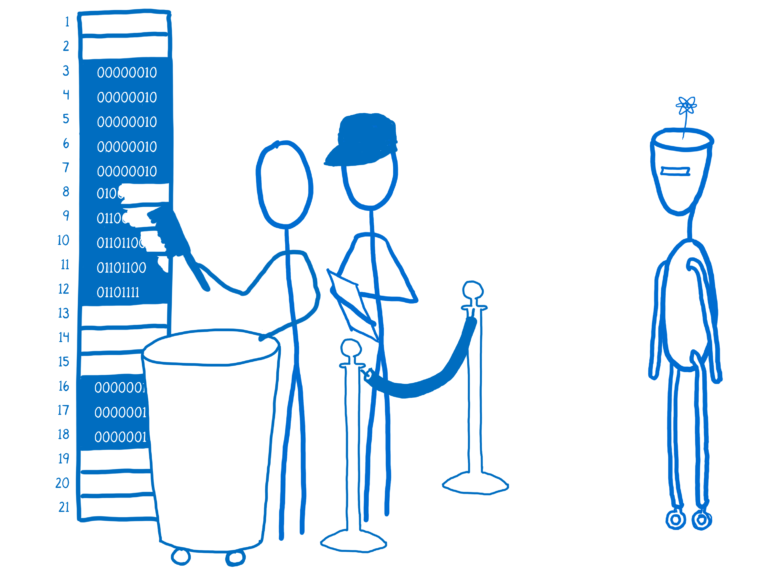
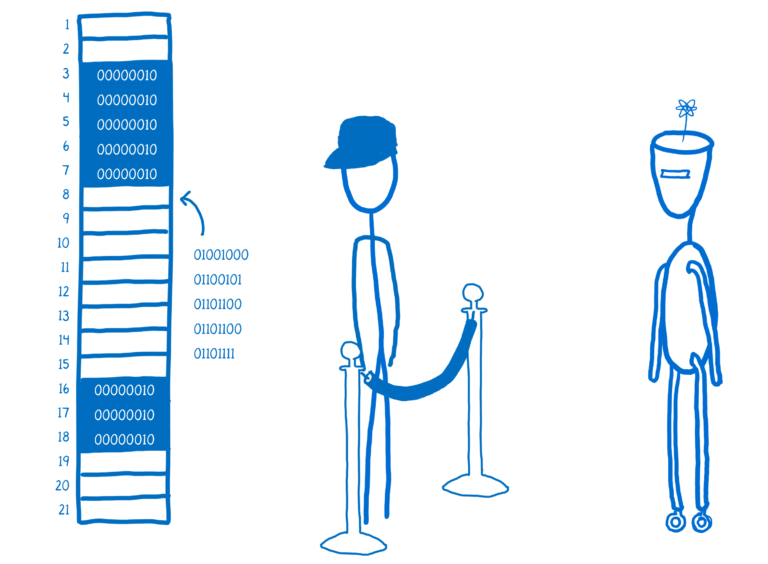
Site updated: 2019-05-10 13:03:54

diff --git a/2019/05/07/内存管理/index.html b/2019/05/07/内存管理/index.html
@@ -96,7 +96,17 @@
 <meta property="og:locale" content="zh-Hans">
 <meta property="og:image" content="http://heartwarming.github.io/images/memory_01.png">
 <meta property="og:image" content="http://heartwarming.github.io/images/memory_02.png">
-<meta property="og:updated_time" content="2019-05-10T04:51:43.608Z">
+<meta property="og:image" content="http://heartwarming.github.io/images/memory_03.png">
+<meta property="og:image" content="http://heartwarming.github.io/images/memory_04.png">
+<meta property="og:image" content="http://heartwarming.github.io/images/memory_05.png">
+<meta property="og:image" content="http://heartwarming.github.io/images/memory_06.png">
+<meta property="og:image" content="http://heartwarming.github.io/images/memory_07.png">
+<meta property="og:image" content="http://heartwarming.github.io/images/memory_08.png">
+<meta property="og:image" content="http://heartwarming.github.io/images/memory_09.png">
+<meta property="og:image" content="http://heartwarming.github.io/images/memory_10.png">
+<meta property="og:image" content="http://heartwarming.github.io/images/memory_12.png">
+<meta property="og:image" content="http://heartwarming.github.io/images/memory_13.png">
+<meta property="og:updated_time" content="2019-05-10T05:03:31.906Z">
 <meta name="twitter:card" content="summary">
 <meta name="twitter:title" content="内存管理">
 <meta name="twitter:description" content="关于ECMAScript2017特性SharedArrayBuffer和atomics的背景知识：本文分为三部分介绍  内存管理的速成课程 ArrayBuffers和SharedArrayBuffers的介绍 使用Atomics避免SharedArrayBuffers中的竞争条件  内存管理的速成课程要理解为什么将ArrayBuffer和SharedArrayBuffer添加到JavaScript">
@@ -478,33 +488,33 @@
 <p>这些盒子中的每一个都是相同的大小，可以容纳一定数量的信息。盒子的大小是机器特有的。该大小称为字大小。它通常类似于32位或64位。但是为了更容易显示，我将使用8位的字大小。</p>
 <p><img src="/images/memory_02.png" alt></p>
 <p>如果我们想将数字2放在其中一个框中，我们可以轻松完成。数字很容易用二进制表示。</p>
-<p><a href="/images/memory_03.png"></a></p>
+<p><img src="/images/memory_03.png" alt></p>
 <p>如果我们想要一些不是数字的东西呢？喜欢字母H？</p>
 <p>我们需要有办法将其表示为数字。为此，我们需要一种编码，如UTF-8。我们需要一些东西把它变成那个数字……就像一个编码器环。然后我们可以存储它。</p>
-<p><a href="/images/memory_04.png"></a></p>
+<p><img src="/images/memory_04.png" alt></p>
 <p>当我们想要将它从包装盒中取出时，我们必须通过解码器将其转换回H.</p>
 <p><strong>自动内存管理</strong><br>当你在JavaScript中工作时，你实际上并不需要考虑这个记忆。它被抽象出来了。这意味着您不要直接触摸内存。</p>
 <p>相反，JS引擎充当中介。它为您管理内存。</p>
-<p><a href="/images/memory_05.png"></a><br>一列盒子，前面有一根绳子，JS引擎就像弹跳器一样站在那根绳子上</p>
+<p><img src="/images/memory_05.png" alt><br>一列盒子，前面有一根绳子，JS引擎就像弹跳器一样站在那根绳子上</p>
 <p>所以让我们说一些JS代码，比如React，想要创建一个变量。</p>
-<p><a href="/images/memory_06.png"></a></p>
+<p><img src="/images/memory_06.png" alt></p>
 <p>JS引擎所做的是通过编码器运行该值以获取值的二进制表示。</p>
-<p><a href="/images/memory_07.png"></a><br>JS引擎使用编码器环将字符串转换为二进制</p>
+<p><img src="/images/memory_07.png" alt><br>JS引擎使用编码器环将字符串转换为二进制</p>
 <p>它会在内存中找到可以将二进制表示放入的空间。此过程称为分配内存。</p>
-<p><a href="/images/memory_08.png"></a><br>JS引擎在框的列中查找二进制文件的空间</p>
+<p><img src="/images/memory_08.png" alt><br>JS引擎在框的列中查找二进制文件的空间</p>
 <p>然后，引擎将跟踪该变量是否仍可从程序中的任何位置访问。如果无法再访问该变量，则将回收内存，以便JS引擎可以在其中放置新值。</p>
-<p><a href="/images/memory_09.png"></a><br>垃圾收集器清除内存</p>
+<p><img src="/images/memory_09.png" alt><br>垃圾收集器清除内存</p>
 <p>这个监视变量字符串，对象和其他类型值的过程在内存中进行，并在无法再访问它们时将其清除，称为垃圾回收。</p>
 <p>JavaScript之类的语言（代码不直接处理内存）称为内存管理语言。</p>
 <p>这种自动内存管理可以使开发人员更轻松。但它也增加了一些开销。而这种开销有时会使性能无法预测。</p>
 <p><strong>手动内存管理</strong><br>手动管理内存的语言不同。例如，让我们看看如果React是用C语言编写的，React将如何处理内存（现在可以  使用WebAssembly）。</p>
 <p>C没有JavaScript在内存上做的那个抽象层。相反，你直接在内存上运行。您可以从内存加载内容，并可以将内容存储到内存中。</p>
-<p><a href="/images/memory_09.png"></a><br>React的WebAssembly版本直接使用内存</p>
+<p><img src="/images/memory_10.png" alt><br>React的WebAssembly版本直接使用内存</p>
 <p>当您将C或其他语言编译为WebAssembly时，您使用的工具会在WebAssembly中添加一些帮助程序代码。例如，它将添加执行编码和解码字节的代码。此代码称为运行时环境。运行时环境将帮助处理JS引擎为JS所做的一些事情。</p>
-<p><a href="/images/memory_10.png"></a><br>编码器环作为.wasm文件的一部分传送下来</p>
+<p><img src="/images/memory_12.png" alt><br>编码器环作为.wasm文件的一部分传送下来</p>
 <p>但对于手动管理的语言，该运行时将不包括垃圾收集。</p>
 <p>这并不意味着你完全依靠自己。即使在具有手动内存管理的语言中，您通常也会从语言运行时获得一些帮助。例如，在C中，运行时将跟踪在称为空闲列表的内容中打开的内存地址。</p>
-<p><a href="/images/memory_11.png"></a><br>列框旁边的空闲列表，列出哪些框现在是免费的</p>
+<p><img src="/images/memory_13.png" alt><br>列框旁边的空闲列表，列出哪些框现在是免费的</p>
 <p>您可以使用该函数malloc（内存分配的简称）来要求运行时查找一些适合您数据的内存地址。这将从免费列表中取出这些地址。当您完成该数据后，您必须调用free以释放内存。然后这些地址将被添加回空闲列表。</p>
 <p>你必须弄清楚何时调用这些功能。这就是为什么它被称为手动内存管理 - 你自己管理内存。</p>
 <p>作为开发人员，弄清楚何时清除内存的不同部分可能很困难。如果你在错误的时间进行，它可能会导致错误，甚至导致安全漏洞。如果你不这样做，你的内存就会耗尽。</p>

diff --git a/css/main.css b/css/main.css
@@ -1952,7 +1952,7 @@ pre .javascript .function {
   width: 4px;
   height: 4px;
   border-radius: 50%;
-  background: #6399d9;
+  background: #ff5eaf;
 }
 .links-of-blogroll {
   font-size: 13px;
